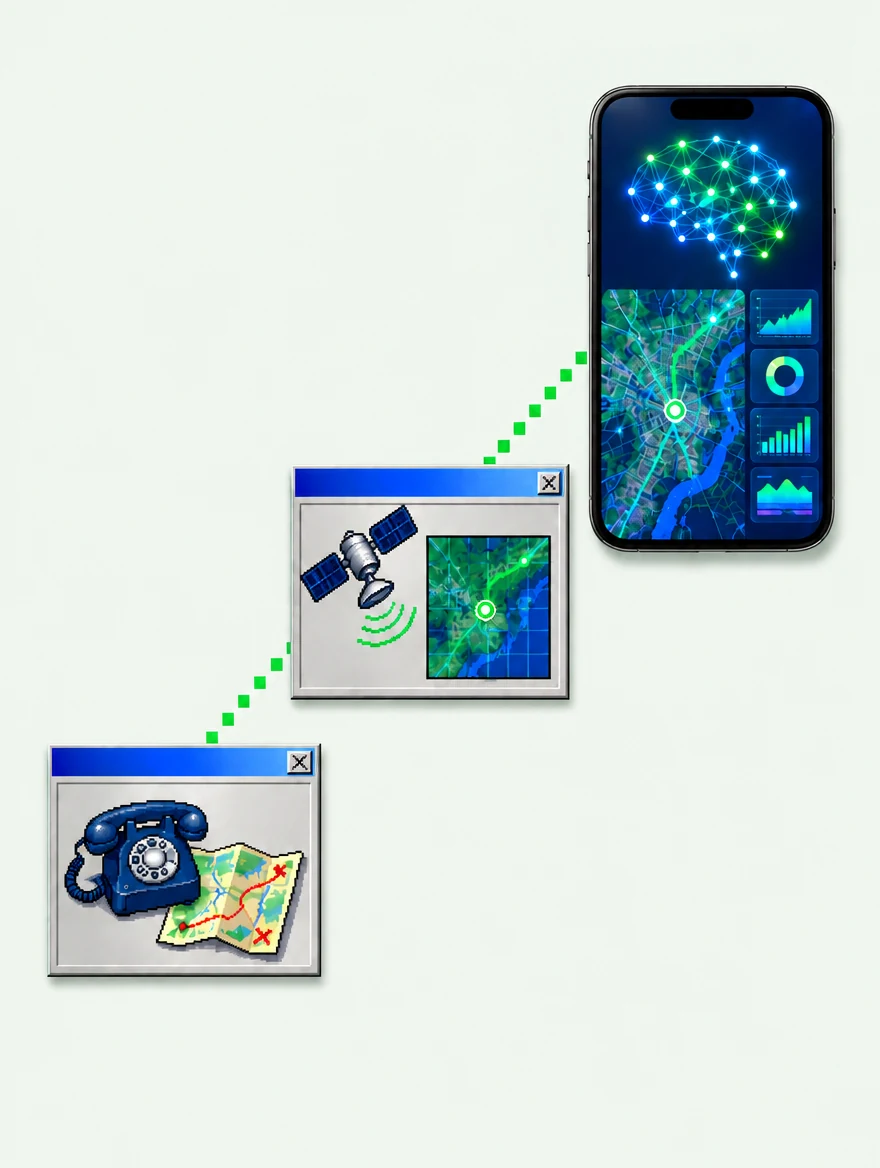
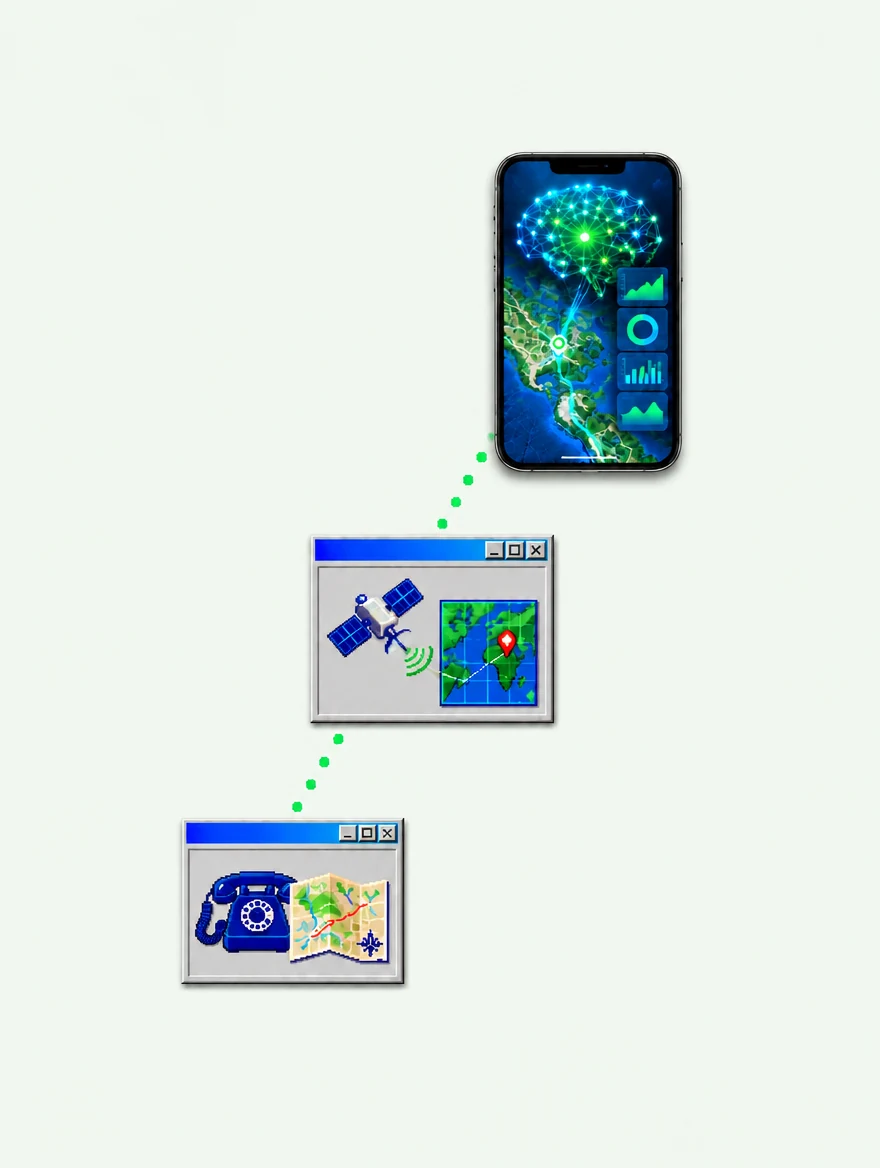
About heritage: use the updated evolution image, centred in the frame
Claude-Session: https://claude.ai/code/session_0171CsNeCya1LfcDMSAgnZbJ

Changed region(s): [[0.0307, 0.0616, 0.9818, 0.863]]

diff --git a/src/data/about.ts b/src/data/about.ts
@@ -53,7 +53,7 @@ export const about: DetailPage = {
         'What started as a basic Telematics software provider has evolved into a full-stack Telematics SaaS platform company. Driven by commercially viable Oil & Gas discoveries in Uganda, Tanzania, Mozambique, Kenya, Ethiopia, and South Sudan, and the implementation of the Regional Electronic Cargo Tracking System (RECTS) across East African Community (EAC) Member States, the company has strategically positioned itself as a technology partner of choice.',
         'Our journey has been defined by continuous innovation, strategic alliances, and an unwavering commitment to customer success. We have remained true to our founding principle: **Technology must deliver measurable value.**',
       ],
-      media: { ...img.truckConvoyHighway, focus: 'center 30%' },
+      media: { ...img.truckConvoyHighway, focus: 'center 45%' },
       mediaLabel: 'Fleet tracking through the years',
       mediaFill: true,
       reverse: true,

diff --git a/src/data/images.ts b/src/data/images.ts
@@ -301,7 +301,7 @@ export const img = {
   },
   truckConvoyHighway: {
     src: '/images/heritage-evolution.webp',
-    alt: 'Fleet tracking through the years: a rotary phone and paper map, then satellite GPS on a desktop window, then an AI dashboard with a live map on a smartphone',
+    alt: 'Fleet tracking through the years: a rotary phone and paper map, then satellite GPS over a map of Africa on a desktop window, then an AI dashboard with a live map on a smartphone',
     width: 880,
     height: 1168,
   },
